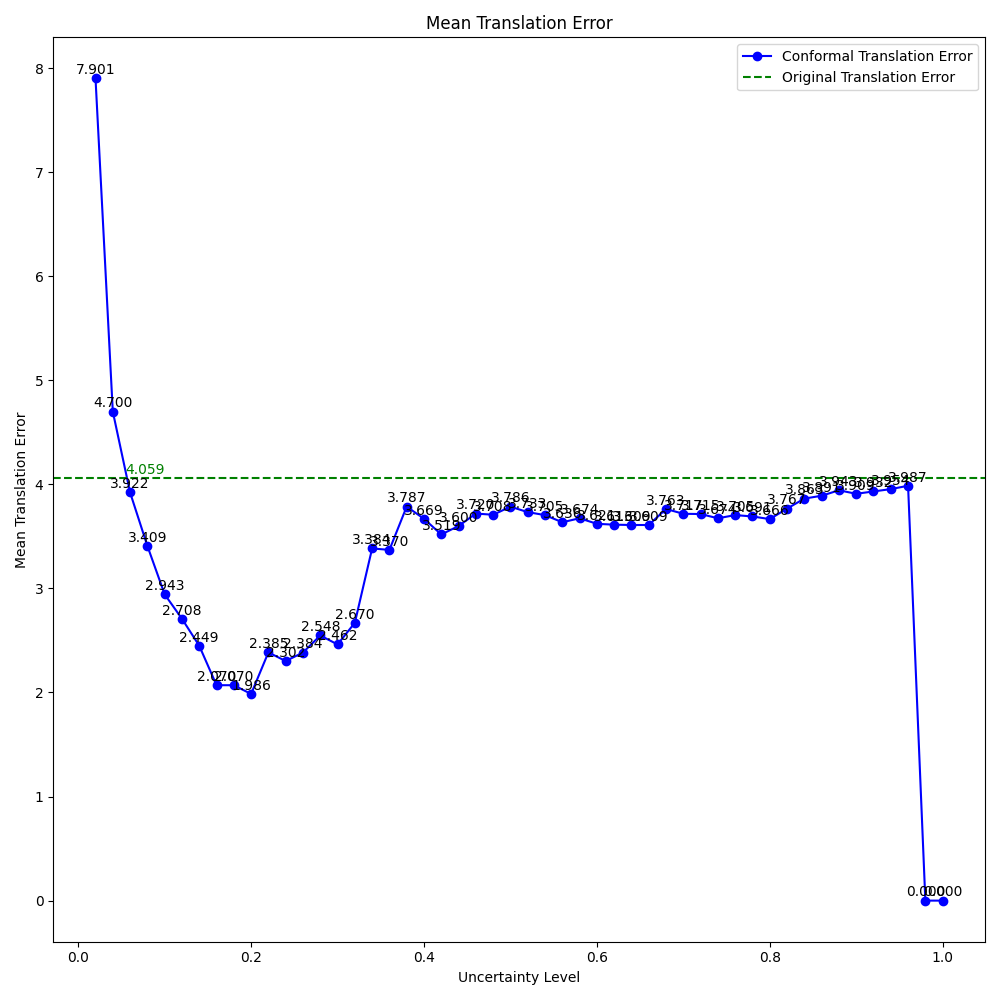
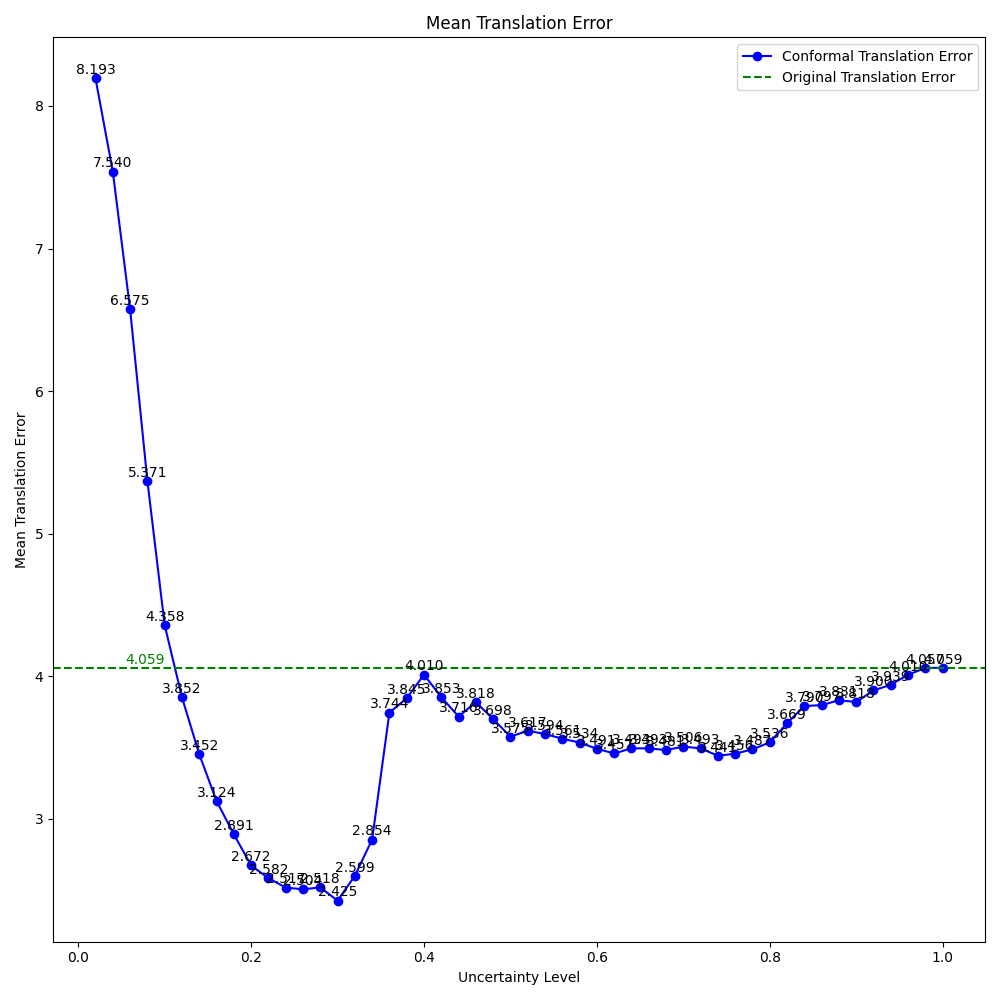
update

diff --git a/icp.py b/icp.py
@@ -89,9 +89,6 @@ def translation_err(est_pose, gt_pose):
     return posit_err
 
 
-
-
-    
 class Inductive_Conformal_Predcition:
     def __init__(self, gt, pred, mode, trans_norm=None, rate=None):
         """
@@ -139,6 +136,17 @@ class Inductive_Conformal_Predcition:
         }
         return self.non_conformity_scores
     
+    def compute_cal_distance(self):
+        trans_distances = []
+        rot_distances = []
+        for i in range(self.gt.shape[0]):
+            rot_dist = self.rot_err(self.gt_rot[i].repeat(self.gt.shape[0], 1), self.gt_rot).mean()
+            trans_dist = self.trans_err(self.gt_trans[i].repeat(self.gt.shape[0], 1), self.gt_trans).mean()
+            rot_distances.append(rot_dist)
+            trans_distances.append(trans_dist)
+        self.trans_distances = torch.tensor(trans_distances)
+        self.rot_distances = torch.tensor(rot_distances)
+    
     def compute_nc_scores(self):
         if self.non_conformity_scores == None:
             self.compute_non_conformity_scores()
@@ -163,6 +171,8 @@ class Inductive_Conformal_Predcition:
     def compute_p_value_from_calibration_poses(self, new_pose, topk=5):
         if self.nc_scores == None:
             self.compute_nc_scores()
+            self.compute_cal_distance()
+            self.nc_scores = self.nc_scores / self.trans_distances
         new_pose_q = new_pose[:, 3:]
         new_pose_t = new_pose[:, :3]
         if self.trans_norm is not None:
@@ -186,10 +196,11 @@ class Inductive_Conformal_Predcition:
         pred_region = []
         p_values = []
         
+        
         # Scale new_pose_nc_scores and self.nc_scores to [0, 1]
         new_pose_nc_scores = (new_pose_nc_scores - torch.quantile(new_pose_nc_scores, 0.1)) / (torch.quantile(new_pose_nc_scores, 0.9) - torch.quantile(new_pose_nc_scores, 0.1))
         self.nc_scores = (self.nc_scores - torch.quantile(self.nc_scores, 0.1)) / (torch.quantile(self.nc_scores, 0.9) - torch.quantile(self.nc_scores, 0.1))
-        
+
         # new_pose_nc_scores = new_pose_nc_scores / new_pose_nc_scores.mean()
         # embed()
         
@@ -201,7 +212,8 @@ class Inductive_Conformal_Predcition:
         p_values = np.array(p_values)
         
         # embed()
+        # print()
         # pred_region = np.argsort(p_values)[::-1][:topk]
         pred_region = np.where(p_values > 0.99)[0]
-        print("P-value Num: ", len(pred_region))
+        # print("P-values: ", p_values, "P-value Num: ", len(pred_region))
         return pred_region.tolist()
